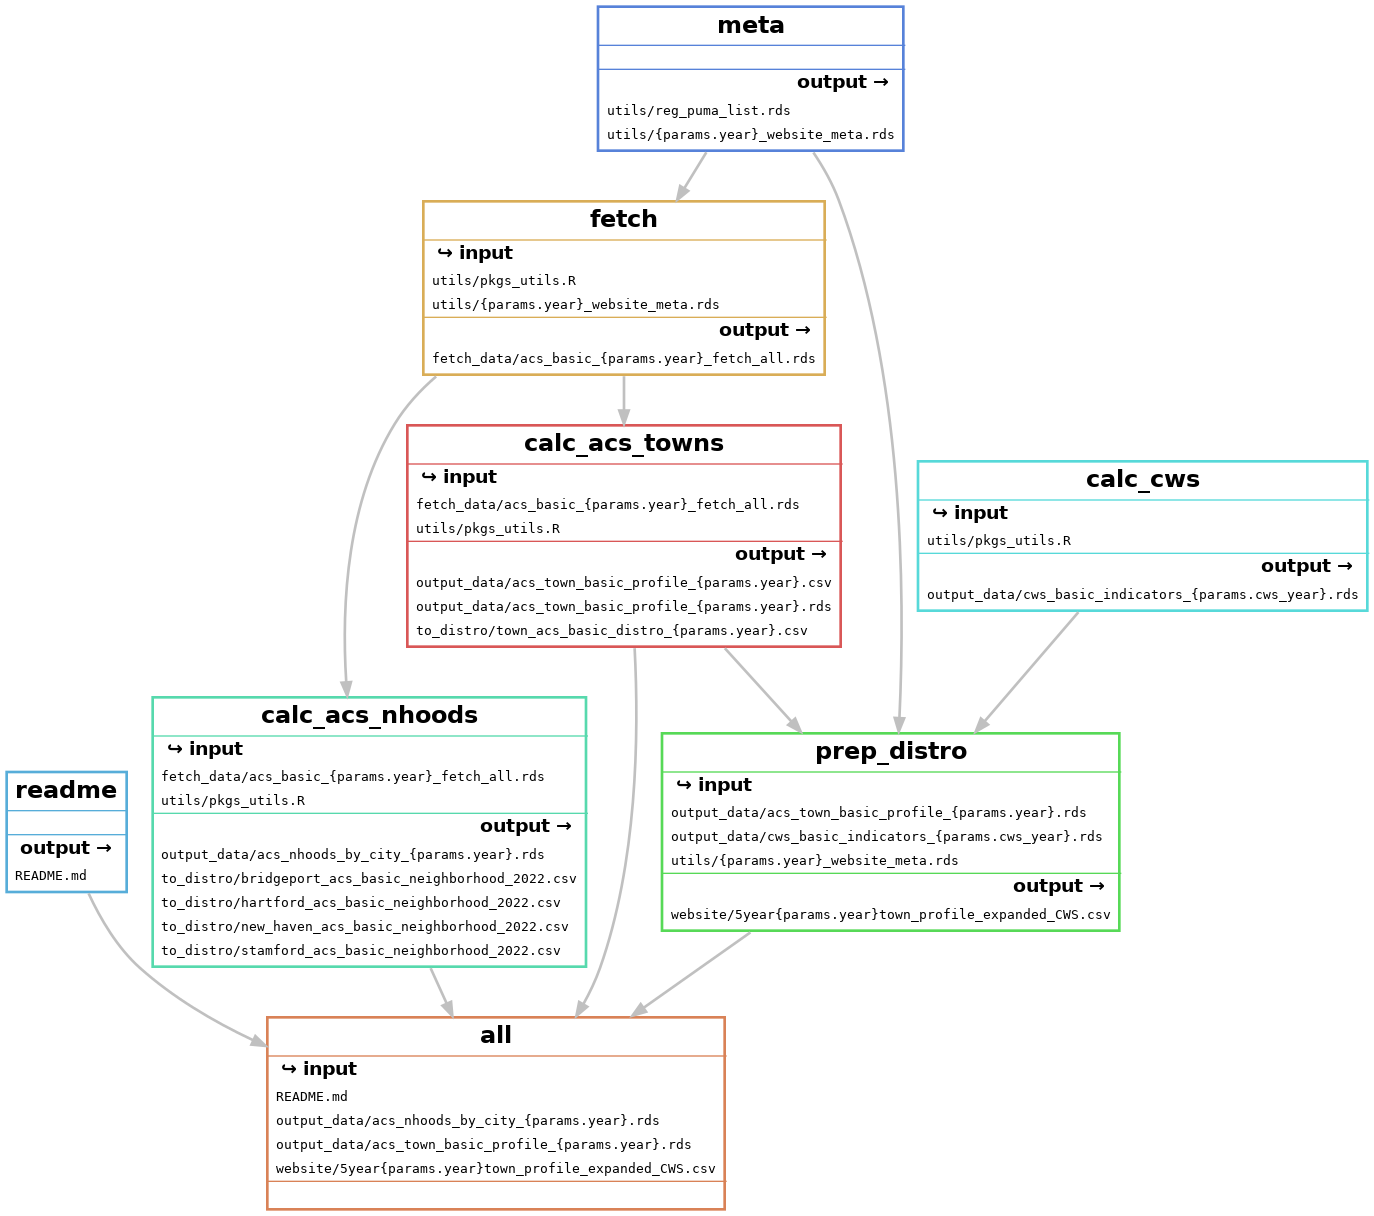
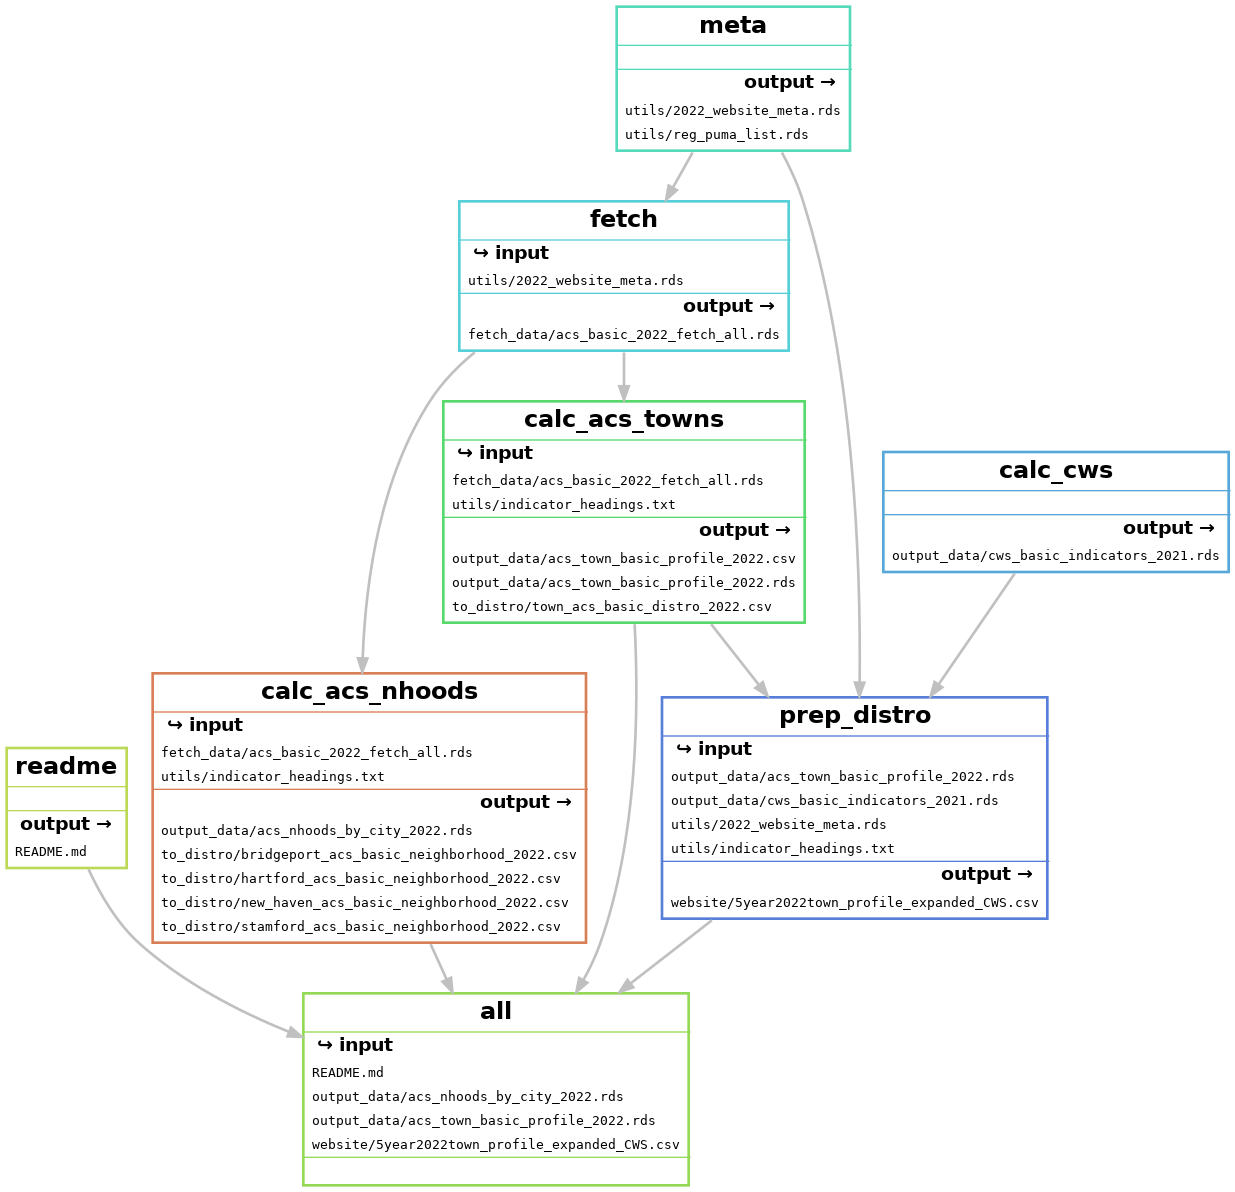
Lol that's not how snakefiles work

Changed region(s): [[0.0, 0.0, 1.0, 1.0]]

diff --git a/README.md b/README.md
@@ -8,23 +8,14 @@ populating website’s community profiles is in [`website`](website).
 
 ## Output
 
-                                                levelName
-    1  .                                                 
-    2   ¦--fetch_data                                    
-    3   ¦   °--acs_basic_2022_fetch_all.rds              
-    4   ¦--output_data                                   
-    5   ¦   ¦--acs_nhoods_by_city_2022.rds               
-    6   ¦   ¦--acs_town_basic_profile_2022.csv           
-    7   ¦   ¦--acs_town_basic_profile_2022.rds           
-    8   ¦   °--cws_basic_indicators_2021.rds             
-    9   ¦--to_distro                                     
-    10  ¦   ¦--bridgeport_acs_basic_neighborhood_2022.csv
-    11  ¦   ¦--hartford_acs_basic_neighborhood_2022.csv  
-    12  ¦   ¦--new_haven_acs_basic_neighborhood_2022.csv 
-    13  ¦   ¦--stamford_acs_basic_neighborhood_2022.csv  
-    14  ¦   °--town_acs_basic_distro_2022.csv            
-    15  °--website                                       
-    16      °--5year2022town_profile_expanded_CWS.csv    
+                                    levelName
+    1 .                                      
+    2  ¦--output_data                        
+    3  ¦   ¦--acs_town_basic_profile_2022.csv
+    4  ¦   ¦--acs_town_basic_profile_2022.rds
+    5  ¦   °--cws_basic_indicators_2021.rds  
+    6  °--to_distro                          
+    7      °--town_acs_basic_distro_2022.csv 
 
 ## Development
 
@@ -48,24 +39,24 @@ there.
 To build the full project in the proper order, on the command line run:
 
 ``` bash
-make
-# or make all
+snakemake all --cores 2 # or more cores if you can
 ```
 
-or rebuild just once piece of it, e.g. `make distro_nhood`.
+or rebuild just once piece of it,
+e.g. `snakemake prep_distro --cores 2`.
 
-You can supply the years to `make`; calling `make testvars` will verify
-what years are being used by sourcing just `utils/pkgs_utils.R`.
+Calling `snakemake testvars --cores 2` will verify what years are being
+used by sourcing just `utils/pkgs_utils.R`.
 
 Additionally, this repo has a release of data in order to have a single
 source of the year’s ACS data for other projects. To create and upload
 the release, run:
 
 ``` bash
-make release 
+snakemake release --cores 2
 ```
 
 <figure>
-<img src="make.png" alt="makefile" />
-<figcaption aria-hidden="true">makefile</figcaption>
+<img src="dag.png" alt="snakefile" />
+<figcaption aria-hidden="true">snakefile</figcaption>
 </figure>
